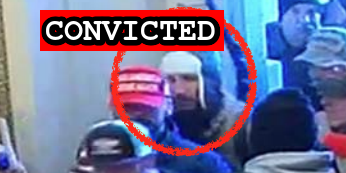
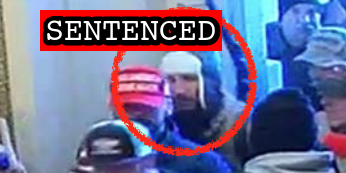
Latest sentence

Changed region(s): [[0.1156, 0.0578, 0.6647, 0.289]]

diff --git a/docs/_suspects/eric-torrens.md b/docs/_suspects/eric-torrens.md
@@ -4,12 +4,12 @@ lastName: Torrens
 hashtag: EricChaseTorrens
 aka:
 residence: Tennessee
-status: Convicted
+status: Sentenced
 date: 2021-01-27
 charged: 2021-01-27
 indicted: 2021-03-10
 convicted: 2021-08-19
-sentenced:
+sentenced: 2021-10-29
 dismissed:
 deceased:
 plea_hearing: 2021-08-19
@@ -39,6 +39,9 @@ charges:
     url: https://www.law.cornell.edu/uscode/text/40/5104
     felony: false
 sentence:
+  - 90 days home confinement
+  - 3 years probation
+  - $500 restitution
 ---
 
 - [News Report](https://www.msn.com/en-us/news/crime/gallatin-man-arrested-on-charges-related-to-capitol-riots/ar-BB1djcvS)
